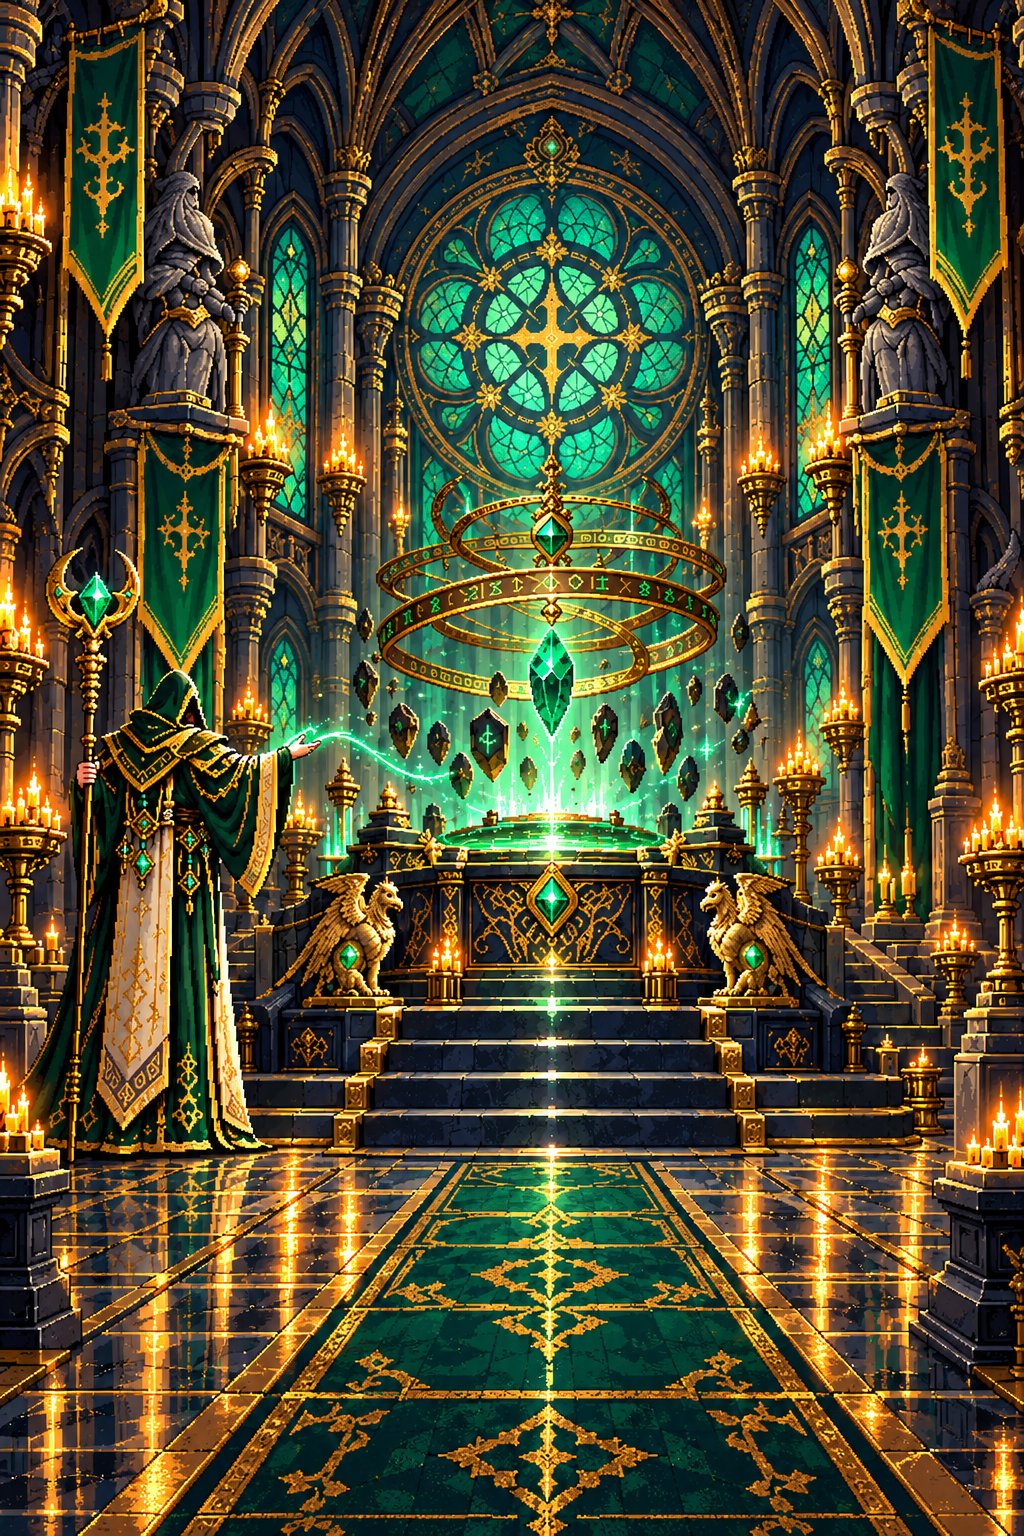
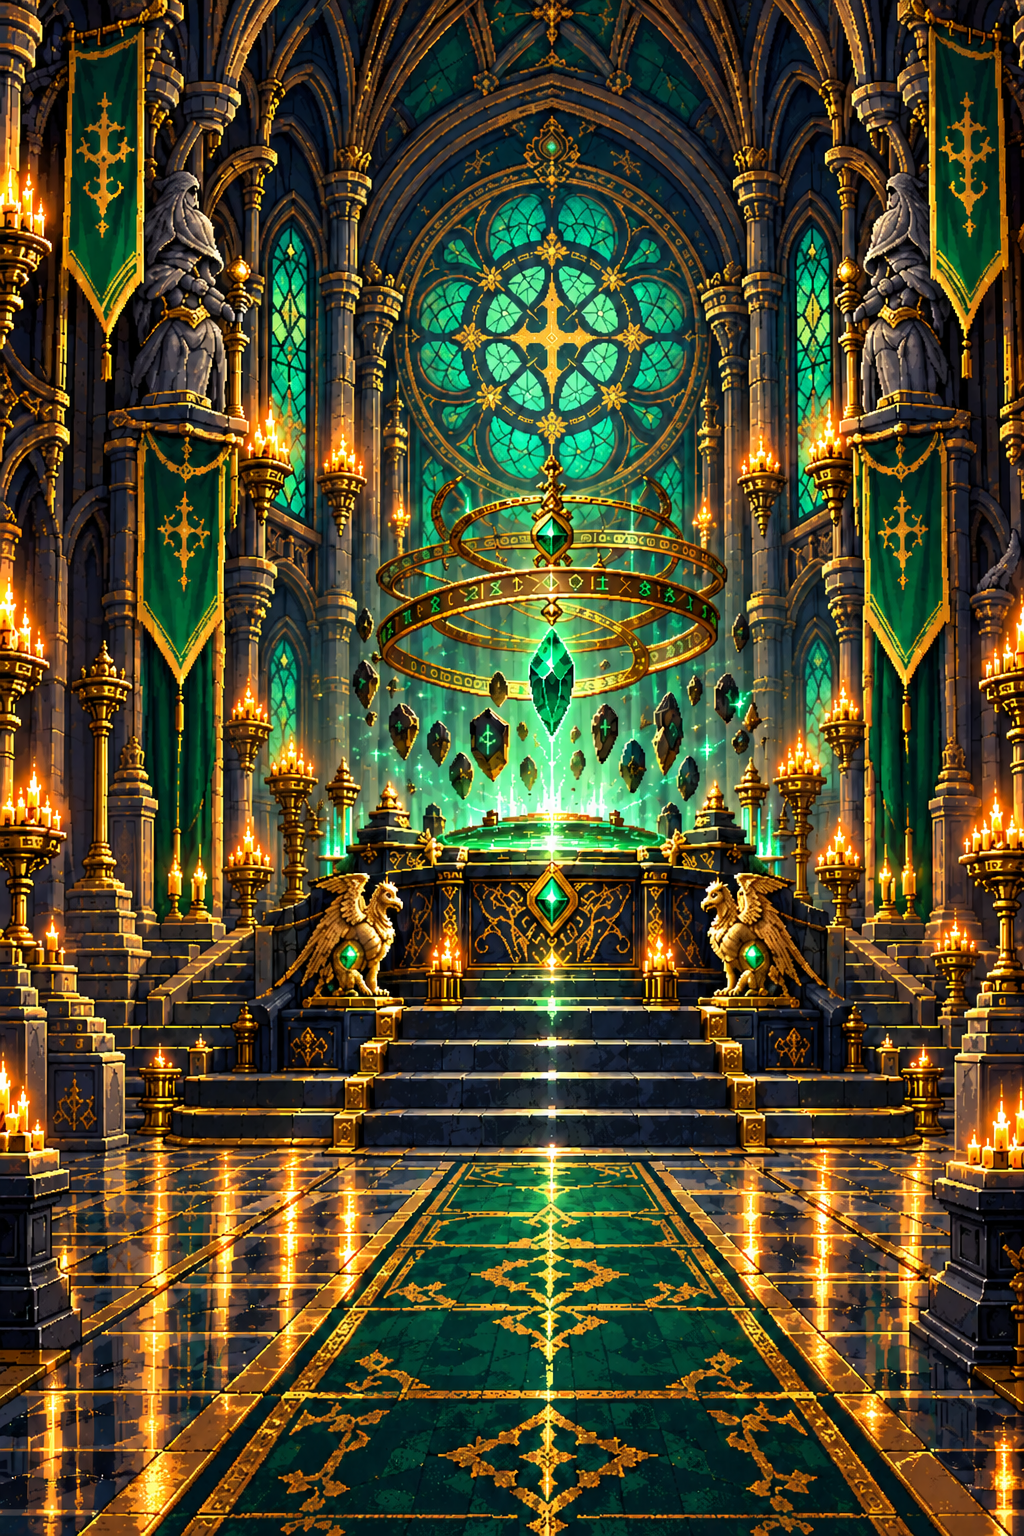
Animate the summoner and reveal new allies in the chamber

diff --git a/src/summonTarot.ts b/src/summonTarot.ts
@@ -1,14 +1,7 @@
-// The summoning's cards (SUMMON-TAROT). A shard from a summoning stone is a tarot card: the hero's black silhouette behind its
-// class sigil, in its class aura's colour, with its arcana number, its name, "+1 shard" and its bar; the hero's own figure is not
-// shown. A hero's figure is revealed the first time with its own scene, the unlock scene: the card glows, turns and breaks into
-// light, the hero rises out of it, and its name and title come in. It plays for every hero the first time it joins, whatever
-// brought it (shards, a lucky stone, a milestone earned in play), driven by the pull itself or by `Meta.heroesSeen`
-// (`sim/heroesSeen.ts`), so a reveal missed for any reason plays the next time the game can show it.
-//
-// Art: the card frame is `ui/tarot-frame.png` (one PixelLab generation); the sigils, bursts, rings and halos are strips of the
-// 5000 Pixel Effects pack packed into `art/tarot/arcana.png` (12 elements a row; glyph, burst, circle, aura, six 32px frames each).
-// Every moving part is a CSS animation or transition (nothing is drawn per frame), nothing blinks off and on, and with reduced
-// motion the scene is a calm fade from the card to the hero.
+// Shard rewards use tarot cards. New allies appear directly in the chamber: the summoner casts,
+// shields his eyes against the arrival flash, then relaxes as the hero and name are revealed.
+// The existing seen-hero queue covers stone pulls, earned heroes and interrupted reveals.
+// Atlas effects are from the credited Pixel Effects pack; reduced motion uses a calm fade.
 
 import { ALL_HEROES, UNITS } from './sim/units';
 import { RANK_SHARDS, rankOf, saveMeta, type Meta, type Pull } from './sim/meta';
@@ -21,6 +14,7 @@ import { duck, play as playSfx } from './render/sound';
 import { SKIP_GUARD_MS } from './render/summonRules';
 import arcanaUrl from './art/tarot/arcana.png';
 import sanctumUrl from './art/hall/sanctum.png';
+import { summoner } from './summoner';
 import swordIcon from './art/talent/sword.png';
 import shieldIcon from './art/talent/shield.png';
 import flameIcon from './art/talent/blast.png';
@@ -37,9 +31,9 @@ const TRAIT_ELEMENT: Record<string, (typeof ELEMENTS)[number]> = {
 const PART = { glyph: 0, burst: 1, circle: 2, aura: 3 } as const;
 const CLASS_ICON: Record<StarterClass, string> = { front: shieldIcon, striker: swordIcon, caster: flameIcon, shooter: targetIcon, support: haloIcon };
 
-/** When each beat of the reveal begins (ms): 1 the card glows, 2 it turns and breaks into light, 3 the hero rises, 4 its name. */
+/** Reveal beats (ms): casting, flash and eye shield, hero arrival, then name and return to idle. */
 export const BEATS = [0, 1000, 1700, 2900] as const;
-/** With reduced motion: the card, then one calm fade to the hero and its name. */
+/** With reduced motion: casting pose, then a calm fade to the hero and its name. */
 export const CALM_BEATS = [0, 900, 900, 900] as const;
 
 const roman = (n: number): string => {
@@ -156,11 +150,11 @@ export function firstReveal(meta: Meta, kind: string, opts: { lucky?: boolean; h
   root.setAttribute('role', 'dialog');
   root.setAttribute('aria-label', `${def.name} joins your company`);
   root.style.setProperty('--cls', a.colour);
-  root.style.background = `linear-gradient(#030a07e6, #030a07f2), url("${sanctumUrl}") center / cover`;
+  root.style.background = `linear-gradient(#030a0730, #030a0740), url("${sanctumUrl}") center / 100% 100%`;
   const rays = el('div', 'trRays');
   const stage = el('div', 'trStage');
-  const card = el('div', 'trCard');
-  card.append(tarotFace(kind, 210));
+  const actor = summoner();
+  const flash = el('div', 'trFlash');
   const burst = strip(a.row, 'burst', '240px', 'trBurst once');
   const ring = strip(a.row, 'circle', '200px', 'trRing');
   const halo = strip(a.row, 'glyph', '210px', 'trHalo');
@@ -174,15 +168,16 @@ export function firstReveal(meta: Meta, kind: string, opts: { lucky?: boolean; h
     el('p', 'trRole', def.role),
     el('span', 'trJoin', 'Joins your company'),
   );
-  const lead = el('p', 'trLead', opts.lucky ? 'The stone burns gold…' : 'A new card is drawn…');
+  const lead = el('p', 'trLead', opts.lucky ? 'The stone burns gold…' : 'The summoner calls an ally…');
   const hint = el('small', 'trHint', 'Tap to skip');
-  stage.append(halo, ring, fig, card, burst);
-  root.append(rays, lead, stage, plate, hint);
+  stage.append(halo, ring, fig, burst);
+  root.append(rays, actor, lead, stage, plate, flash, hint);
   document.body.append(root);
   duck(true, 'reveal');
   let at = performance.now();
   const set = (n: number) => {
     root.dataset.stage = `${n}`;
+    actor.dataset.pose = n === 1 ? 'cast' : n < 4 ? 'shield' : 'idle';
     if (n === 4) {
       hint.textContent = 'Tap to continue';
       at = performance.now();
@@ -252,6 +247,14 @@ export const revealing = (): boolean => playing > 0 || waiting.size > 0;
 
 // The styles (the page's palette: brass, emerald, parchment).
 const css = `
+.tarotReveal .trFlash { position: absolute; inset: 0; pointer-events: none; opacity: 0; background: radial-gradient(ellipse at 54% 52%, #fffef1, #fff4bbcc 25%, #ffeaa000 75%); }
+.tarotReveal[data-stage="2"] .trFlash { animation: summonFlash .7s ease-out both; }
+@keyframes summonFlash { 0% { opacity: 0; } 12% { opacity: .95; } 100% { opacity: 0; } }
+.tarotReveal.calm .trFlash, .tarotReveal.skipped .trFlash { display: none; }
+.tarotReveal .summonerActor { z-index: 1; }
+.tarotReveal .trStage, .tarotReveal .trPlate { z-index: 2; }
+.tarotReveal .trPlate { width: calc(100% - 32px); max-width: 370px; padding: 10px 0; background: #06170fe6; border: 1px solid #b99349; box-shadow: 0 4px 18px #0008; }
+
 .tarotStrip { display: block; background-image: url("${arcanaUrl}"); background-repeat: no-repeat; image-rendering: pixelated; background-position-x: var(--sx); animation: tarotStrip 0.9s steps(6) infinite; }
 .tarotStrip.once { animation: none; background-position-x: var(--sx); }
 .tarotReveal[data-stage="2"] .tarotStrip.once { animation: tarotOnce 0.5s steps(4, jump-none) forwards; }
@@ -309,7 +312,6 @@ const css = `
 .tarotReveal .trLead { position: absolute; top: 9%; margin: 0; font: italic 700 18px var(--display); color: #e9d6a5; transition: opacity .4s; }
 .tarotReveal .trStage { position: relative; width: 320px; height: 360px; display: grid; place-items: center; }
 .tarotReveal .trStage > * { position: absolute; }
-.tarotReveal .trCard { width: 210px; perspective: 900px; transition: transform .7s ease-in, opacity .3s .5s; filter: drop-shadow(0 0 18px var(--cls)); animation: trFloat 2s ease-in-out infinite alternate; }
 @keyframes trFloat { from { translate: 0 -4px; } to { translate: 0 4px; } }
 .tarotReveal .trBurst { opacity: 0; pointer-events: none; filter: drop-shadow(0 0 12px var(--cls)); }
 .tarotReveal .trRing { bottom: -30px; opacity: 0; transform: scaleY(.9); transition: opacity .5s; }
@@ -322,12 +324,10 @@ const css = `
 .tarotReveal .trRole { margin: 6px 24px 0; font: 13px/1.3 var(--body); color: #c9d8c5; }
 .tarotReveal .trJoin { display: block; margin-top: 8px; font: 700 13px var(--body); color: #b8eac2; }
 .tarotReveal .trHint { position: absolute; bottom: calc(env(safe-area-inset-bottom) + 22px); color: #c9c09e; font: 12px var(--body); }
-.tarotReveal[data-stage="2"] .trCard { transform: rotateY(90deg) scale(1.08); }
 .tarotReveal[data-stage="2"] .trRays, .tarotReveal[data-stage="3"] .trRays, .tarotReveal[data-stage="4"] .trRays { opacity: 1; animation: trSpin 24s linear infinite; }
 @keyframes trSpin { to { rotate: 360deg; } }
 .tarotReveal[data-stage="2"] .trBurst { opacity: 1; }
 .tarotReveal[data-stage="3"] .trBurst { opacity: 0; transition: opacity .5s; }
-.tarotReveal[data-stage="3"] .trCard, .tarotReveal[data-stage="4"] .trCard { opacity: 0; transform: rotateY(90deg); transition: opacity .15s; }
 .tarotReveal[data-stage="3"] .trRing, .tarotReveal[data-stage="4"] .trRing { opacity: 1; }
 .tarotReveal[data-stage="3"] .trHalo { opacity: .7; }
 .tarotReveal[data-stage="4"] .trHalo { opacity: .35; }
@@ -338,7 +338,7 @@ const css = `
 .tarotReveal[data-stage="4"] .trPlate { opacity: 1; transform: none; }
 .tarotReveal.calm *, .tarotReveal.skipped * { animation-duration: 0s !important; transition-duration: .35s !important; transition-delay: 0s !important; }
 .tarotReveal.calm .trRays, .tarotReveal.calm .trBurst { display: none; }
-.tarotReveal.calm .trCard, .tarotReveal.calm .trFigure, .tarotReveal.calm .trPlate { transform: none !important; translate: none; }
+.tarotReveal.calm .trFigure, .tarotReveal.calm .trPlate { transform: none !important; translate: none; }
 `;
 const style = document.createElement('style');
 style.textContent = css;

diff --git a/src/hall.ts b/src/hall.ts
@@ -15,6 +15,7 @@ import { beamKind, fanSpots, hallLayout, MIN_H, ROOM_W, type BeamKind, type Hall
 import { cardAt, dimAt, shakeAt, showcaseAt, skipAction, summonPlan, type ShowPlan } from './render/summonRules';
 import { duck, hushSummon, play as playSfx } from './render/sound';
 import sanctumUrl from './art/hall/sanctum.png';
+import { summoner } from './summoner';
 import lightPillarUrl from './art/hall/fx_light-pillar.png';
 
 const ART: Record<string, string> = { sanctum: sanctumUrl, lightPillar: lightPillarUrl };
@@ -272,6 +273,7 @@ export interface HallHooks {
 export class SummoningHall {
   readonly root = el('div', 'hlWrap');
   private canvas = el('canvas', 'hlRoom');
+  private actor = summoner();
   private ctx = this.canvas.getContext('2d')!;
   private count = el('div', 'hlCount');
   private scroll = el('div', 'hlScroll');
@@ -318,7 +320,7 @@ export class SummoningHall {
     const low = el('div', 'hlLow');
     this.shop.addEventListener('click', () => this.hooks.onShop());
     low.append(this.scroll, this.shop, bar);
-    this.root.append(this.canvas, head, low, this.over, this.skipPad);
+    this.root.append(this.canvas, this.actor, head, low, this.over, this.skipPad);
     // (a tap anywhere skips the show: a new hero's show jumps to the moment it stands revealed, and only a tap after that goes on to the
     //  result; taps in the first moments, a double tap on the summon button, are let go. SUMMON-TAROT: a double tap used to skip a join's whole show)
     this.skipPad.addEventListener('pointerdown', (e) => {
@@ -456,6 +458,7 @@ export class SummoningHall {
     const s = this.show;
     if (!s) return;
     this.show = null;
+    this.actor.dataset.pose = 'idle';
     if (cut) hushSummon();
     duck(false, 'summon');
     this.skipPad.classList.remove('on');
@@ -533,6 +536,9 @@ export class SummoningHall {
     this.last = t;
     this.now += dt;
     this.tick(dt);
+    const show = this.show;
+    const actorAt = show ? this.now - show.t0 : -1;
+    this.actor.dataset.pose = !show ? 'idle' : actorAt >= show.tl.charge && actorAt < show.plan.revealAt + 500 ? 'shield' : actorAt < show.tl.charge ? 'cast' : 'idle';
     this.draw();
     const s = this.show;
     if (!s) return;

diff --git a/src/gacha.ts b/src/gacha.ts
@@ -141,9 +141,8 @@ export class Gacha {
     this.busy = false;
   }
 
-  /** The cards of a batch: each lies face down, then turns by itself to its tarot face (a hero's silhouette and class sigil, never
-   *  its figure). When all have turned, each hero who joined plays its first-time reveal, the unlock scene, one after another, and
-   *  its card then shows the hero. Each card keeps its own saved shard count. */
+  /** Shards turn to tarot cards; joins begin as dark figures, then play the chamber arrival in queue order.
+   *  After acknowledgement, each joined figure is shown in full. Every reward keeps its saved shard count. */
   private reveal(got: Pull[]): void {
     this.clearReveal();
     this.busy = true;
@@ -175,10 +174,12 @@ export class Gacha {
       turn.setAttribute('aria-label', 'Turn the card');
       const back = document.createElement('div');
       back.className = 'tarotSide back';
-      back.append(tarotBack());
+      back.append(p.isNew ? heroCard(p.kind, px) : tarotBack());
+      if (p.isNew) back.style.filter = 'brightness(0.15)';
       const front = document.createElement('div');
       front.className = 'tarotSide front';
-      front.append(tarotFace(p.kind, px));
+      front.append(p.isNew ? heroCard(p.kind, px) : tarotFace(p.kind, px));
+      if (p.isNew) front.style.filter = 'brightness(0.15)';
       turn.append(back, front);
       res.append(turn, pullInfo(this.meta, p));
       const up = (): void => {
@@ -222,7 +223,9 @@ export class Gacha {
       await queueReveal(this.meta, p.kind, { lucky: p.lucky, force: true });
       if (batch !== this.batch) return;
       const res = $('reveal').querySelector<HTMLElement>(`.tarotResult.joined[data-kind="${p.kind}"]`);
-      res?.querySelector('.tarotSide.front')?.replaceChildren(heroCard(p.kind, px));
+      const front = res?.querySelector<HTMLElement>('.tarotSide.front');
+      front?.replaceChildren(heroCard(p.kind, px));
+      if (front) front.style.filter = '';
     }
     if (batch !== this.batch) return;
     this.busy = false;

diff --git a/src/summoner.ts b/src/summoner.ts
@@ -1,0 +1,24 @@
+// A separate ceremonial actor: planted feet, a breathing robe, casting and an eye-shield reaction.
+import summonerUrl from './art/hall/summoner-active.png';
+
+export function summoner(): HTMLElement {
+  const actor = document.createElement('div');
+  actor.className = 'summonerActor';
+  actor.dataset.pose = 'idle';
+  actor.setAttribute('aria-hidden', 'true');
+  actor.append(document.createElement('i'));
+  return actor;
+}
+
+const style = document.createElement('style');
+style.textContent = `
+.summonerActor { position: absolute; left: 0; top: 42%; width: 33%; height: 35%; pointer-events: none; }
+.summonerActor i { display: block; width: 100%; height: 100%; background: url("${summonerUrl}") 0 50% / 300% 100% no-repeat; transform-origin: 50% 100%; animation: summonerBreath 3.2s ease-in-out infinite; }
+.summonerActor[data-pose="cast"] i { background-position-x: 50%; animation: summonerCast 1s ease-in-out infinite; }
+.summonerActor[data-pose="shield"] i { background-position-x: 100%; animation: summonerShield .35s ease-out both; }
+@keyframes summonerBreath { 0%, 100% { transform: scaleY(1); } 50% { transform: scaleY(1.012) skewX(.35deg); } }
+@keyframes summonerCast { 0%, 100% { transform: skewX(0); } 50% { transform: skewX(-1.2deg) scaleY(1.01); } }
+@keyframes summonerShield { from { transform: skewX(0); } to { transform: skewX(-2deg); } }
+@media (prefers-reduced-motion: reduce) { .summonerActor i { animation: none !important; } }
+`;
+document.head.append(style);

diff --git a/docs/notes/animated-summoner.md b/docs/notes/animated-summoner.md
@@ -1,0 +1,11 @@
+# Active ceremonial summoner
+
+Owner approved an idle, a casting animation and shielding eyes from the bright hero arrival. Implemented on `art/animated-summoner` in `/workspace/legends-of-the-fall`.
+
+The summoner is separate from the painted room. A transparent three-pose atlas supplies idle, cast and eye-shield artwork. CSS adds restrained breathing and casting motion with feet anchored. The existing hall ritual also selects the matching pose.
+
+The queued new-hero reveal now uses the chamber, casting summoner, a single bright arrival flash and eye-shield reaction, followed by the hero and its name. No tarot card appears in this scene. Newly joined reward tiles show a dark hero silhouette until the reveal is acknowledged; shard rewards retain their tarot cards. Existing queue, interrupted-reveal recovery, seen/save handling, summon rules and rewards are preserved. Reduced motion disables looping movement and the bright flash, using the existing calm reveal timing.
+
+Both generated images are bundled through imports into game.js, covered by the existing service-worker cache. Credits updated. No version bump, merge or deployment.
+
+Validation: typecheck, web build and the four affected test files (`summon-fx`, `summon-skip`, `heroes-seen`, `no-flicker`) passed. `tools/summoner/check.mjs` exercises idle, casting, flash/eye shield, hero arrival, return to idle and seen-save acknowledgement at 393×852, 360×780 and 412×915, plus reduced motion at 393×852. A real lucky stone pull also reached the new scene and restored its result tile after acknowledgement. Zero page errors. Captures and JSON are in `docs/samples/summoner/`. Ready for owner review; no separate real-device check.

diff --git a/CREDITS.md b/CREDITS.md
@@ -1,5 +1,7 @@
 # Credits
 
+- **Active ceremonial summoner** (`src/art/hall/summoner-active.png`) and character-free sanctum background (`src/art/hall/sanctum.png`): original generated artwork based on the existing approved chamber. Separate idle, casting and eye-shield poses; no third-party character art. Both images are bundled into game.js for offline use.
+
 - **Full Resonance hero upgrade** (`src/art/units/hero_res_*.png`, separate `_back` sheets, and the two pilot heroes): original generated pixel artwork following the owner's approved direction. Includes the 43 remaining collectible heroes, Werewolf Brute/awakened appearances and three Treants. Front/rear art supplies four isometric facings through left/right mirroring; dedicated walking atlases supply eight-frame strides. Prompts, specifications and packing tools are in `tools/resonance/`; raw generation intermediates remain in the art workspace. No franchise sprites are included. Foes/NPCs retain their existing art and credits.
 
 - **Resonance hero pilot** (`hero_soldier.png`, `hero_samurai_archer.png`): original generated pixel artwork, directed from the owner's approved concept and Final Fantasy Resonance style references. No franchise sprites are included. Cropped, packed and sampled with nearest-neighbour scaling by `tools/resonance/pack.cjs`. These replace the Knight and Archer's displayed art at all grades; current grade effects and awakened class auras apply. Original Craftpix sheets and their credits remain available.

diff --git a/docs/TASKS.md b/docs/TASKS.md
@@ -355,3 +355,10 @@ UI-007 release 0.189.0 integrated validation passed: typecheck/build; eight affe
 UI-007 integrated STAND-003 main 0.189.0 before merging. Older Last Stand style overrides removed so its new castle-room HUD, pause and end cards remain intact. Release updated to 0.190.0.
 
 UI-007 final 0.190.0 validation complete: current Last Stand Auto, pause/resume, end navigation and reduced motion passed at all three portrait sizes, with zero page errors. Duplicate crest/style overrides removed and edge-arrow paint contained. Typecheck/build and eight matching affected test files passed. PR #154 ready for completion merge.
+
+## SUMMONER-ACTIVE — Animated ceremonial summoner
+
+- Owner: Codex; branch `art/animated-summoner`, worktree `/workspace/legends-of-the-fall`.
+- Scope: chamber artwork, separate summoner actor with idle/cast/eye-shield poses, new-recruit chamber reveal, relevant checks and credits. Shard tarot rewards, simulation and saves preserved.
+- Direction: owner approved current appearance with idle, summoning, and shielding eyes against the bright hero arrival.
+- Completion: three poses integrated with reveal timing and reduced motion. Typecheck/build, four affected test files and browser checks at all three portrait sizes plus reduced motion passed. Status: ready for owner review. [Handoff](notes/animated-summoner.md).
